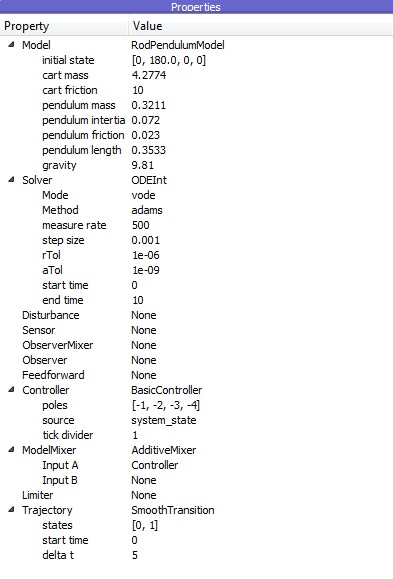
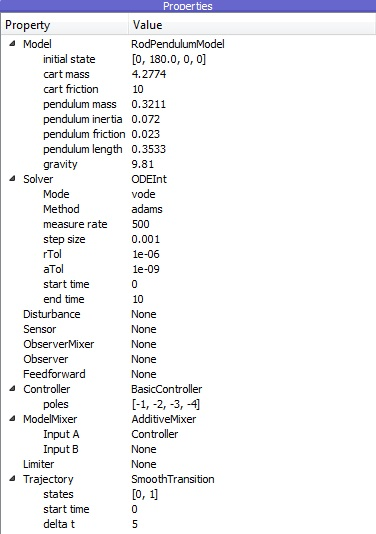
Tutorial: fine tuning 3
- screenshots without transparent bars
- minor changes to code and articles

Changed region(s): [[0.0, 0.03, 0.6144, 0.9888], [0.4388, 0.0, 0.5851, 0.03], [0.9947, 0.03, 1.0, 0.0599]]

diff --git a/docs/tutorial/minimalSystem/controller.py b/docs/tutorial/minimalSystem/controller.py
@@ -7,15 +7,13 @@ import pymoskito as pm
 #class begin
 class BasicController(pm.Controller):
 
-     public_settings = OrderedDict([("poles",[-1,-2,-3,-4]),
-                                    ("source","system_state"),
-                                    ("tick divider", 1)
+     public_settings = OrderedDict([("poles",[-1,-2,-3,-4])
                                     ])
 
 #init
      def __init__(self,settings):
         settings.update(input_order=0)
-        settings.update(input_type=settings["source"])
+        settings.update(input_type="system_state")
 
         pm.Controller.__init__(self, settings)
         
@@ -58,5 +56,6 @@ class BasicController(pm.Controller):
         output = - np.dot(self._K, x) + np.dot(self._V, yd[0])
         
         return output
+
 #register
 pm.register_simulation_module(pm.Controller, BasicController)

diff --git a/docs/tutorial/minimalSystem/__main__.py b/docs/tutorial/minimalSystem/__main__.py
@@ -8,14 +8,7 @@ import controller
 
 if __name__ == '__main__':
 
-    # create an Application instance
     app = QApplication([])
-    
-    # launch gui
     prog = pm.SimulationGui()
-
-    # show gui
     prog.show()
-
-    # execute gui
     app.exec_()

diff --git a/docs/tutorial/new_model.rst b/docs/tutorial/new_model.rst
@@ -39,8 +39,9 @@ Within the constructor, you must define the number of inputs and states.
 Do so by storing these values in settings as seen in lines :py:data:`24` and :py:data:`25`. 
 Adding output information as seen in line :py:data:`26` is optional,
 this will change the appearance of the output diagram.
-It is obligatory to call the constructor of the base class at the end
-:
+It is obligatory to call the constructor of the base class at the end. 
+The constructor's argument :py:data:`settings` is a copy of :py:data:`public_settings`
+with all changes the user made in the interface:
 
 .. literalinclude:: minimalSystem/model.py
     :start-after: #init

diff --git a/docs/tutorial/test_controller.rst b/docs/tutorial/test_controller.rst
@@ -25,3 +25,6 @@ if the control loop reacts the way you would have predicted.
 Keep in mind that the implemented controller is static.
 The control law does not adapt to changes to the model parameters,
 since the controller gain is calculated from values stored in the controller class.
+You can use this effect to simulate the situation,
+that the controller was designed based on model parameters 
+that differ from the real parameters of the process.

diff --git a/docs/tutorial/test_model.rst b/docs/tutorial/test_model.rst
@@ -14,9 +14,6 @@ you will see the interface of the toolbox:
 
 .. image:: ../pictures/ModelTest1.jpg
 
-For a successful simulation, choices for :py:data:`Model`,
-:py:data:`Solver` and :py:data:`ModelMixer` need to be made.
-
 Within the Properties Window (1), double clicking on a value (all :py:data:`None` by default)
 activates a drop down menu.
 Clicking again presents all eligible options.
